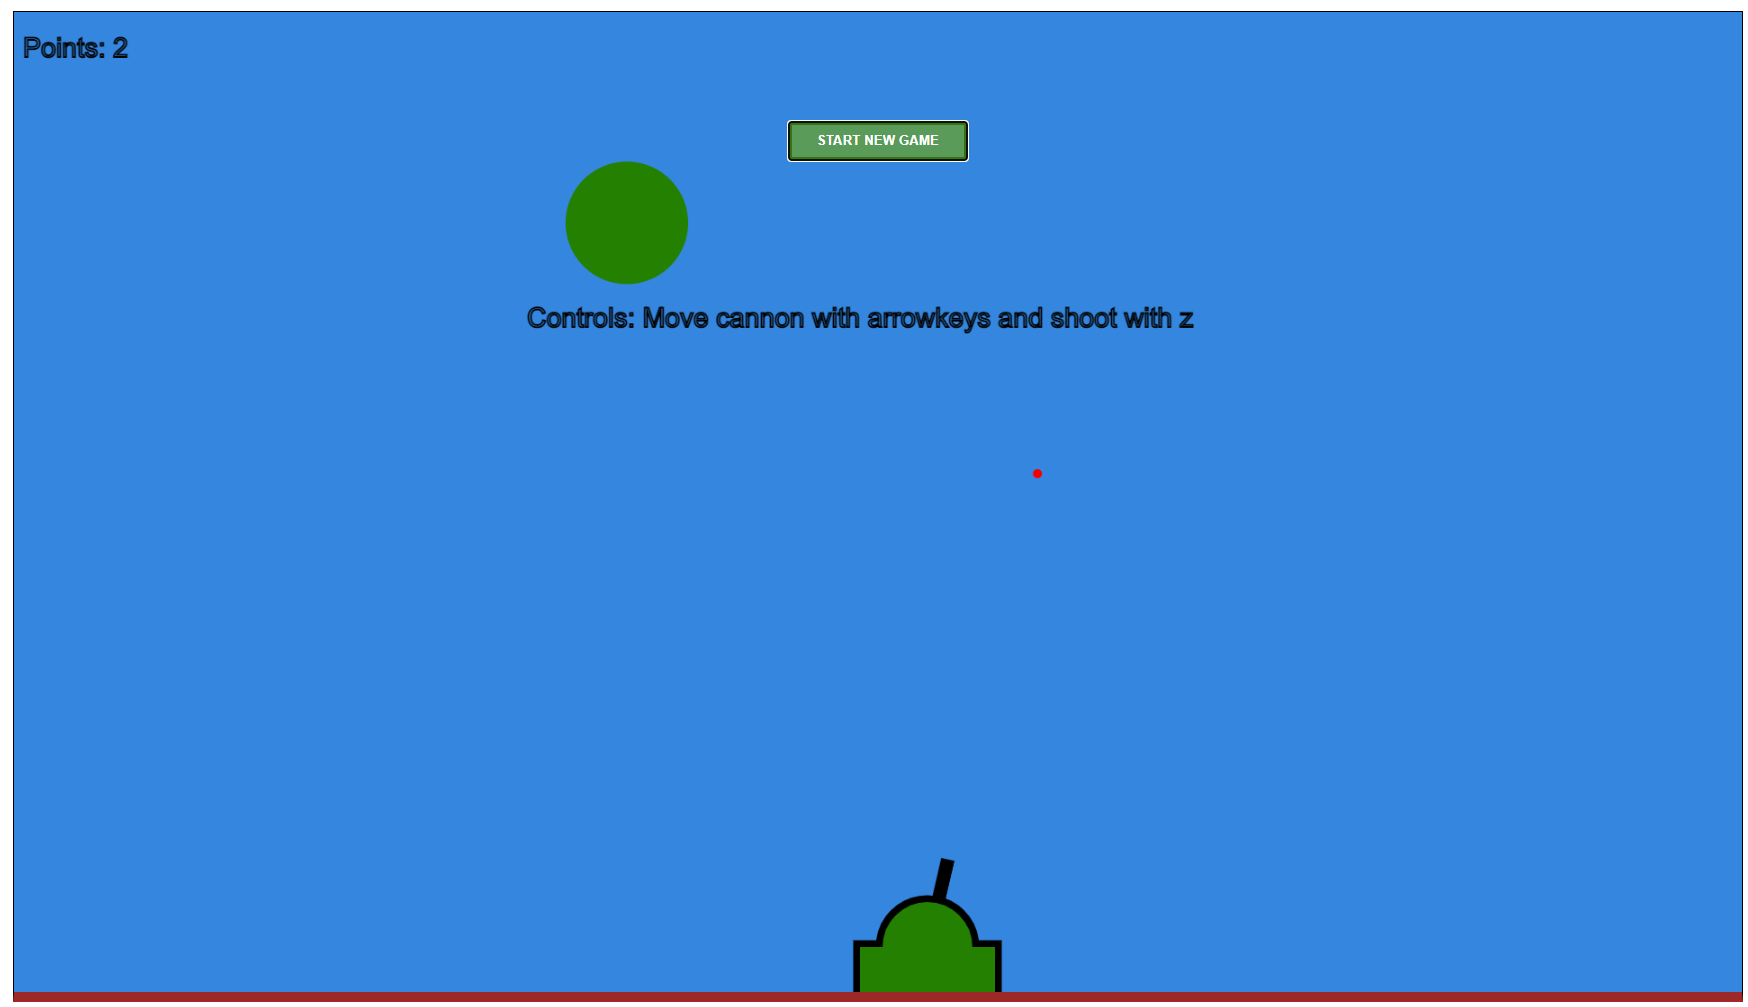
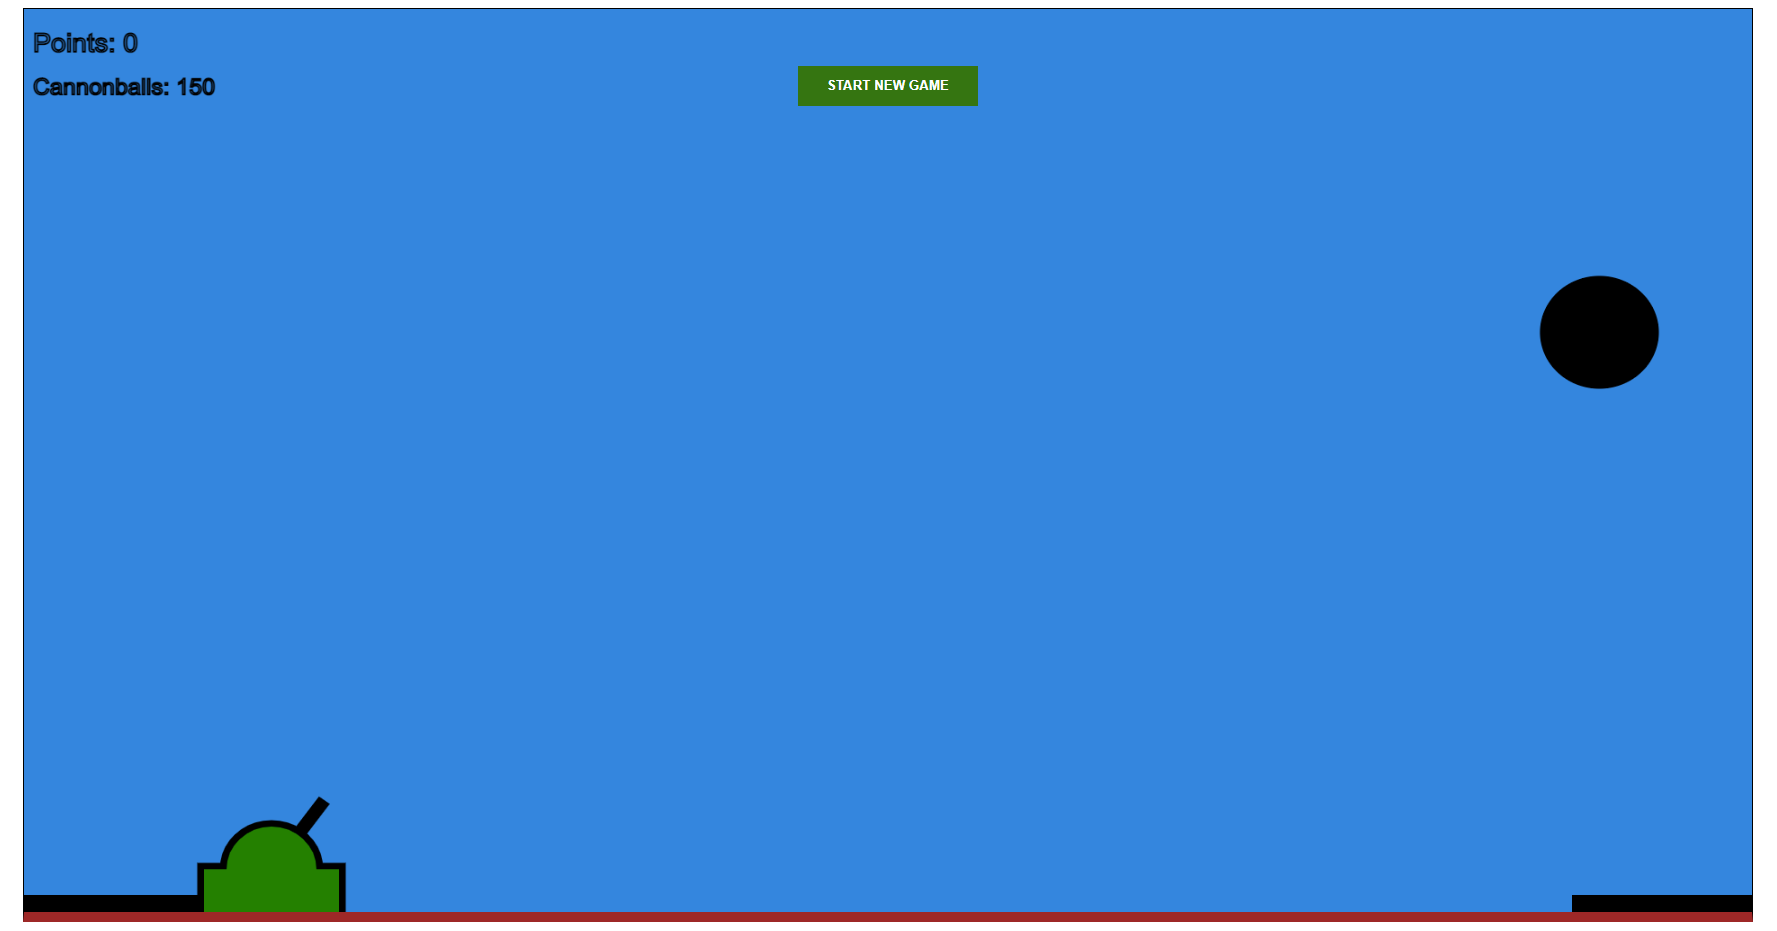
updating README

diff --git a/README.md b/README.md
@@ -1,6 +1,8 @@
-## Tykkipeli 0.6.0
+## Tykkipeli 1.0.0
 
-Browser game made with JavaScript and React
+Browser game made with JavaScript and React.
+
+Idea of the game is trying to dodge bouncing balss and shoot them by cannon. Move cannon an its pipe by arrow keys and shoot with z key.
 
 Try game online: http://keen-crowd.surge.sh/
 
